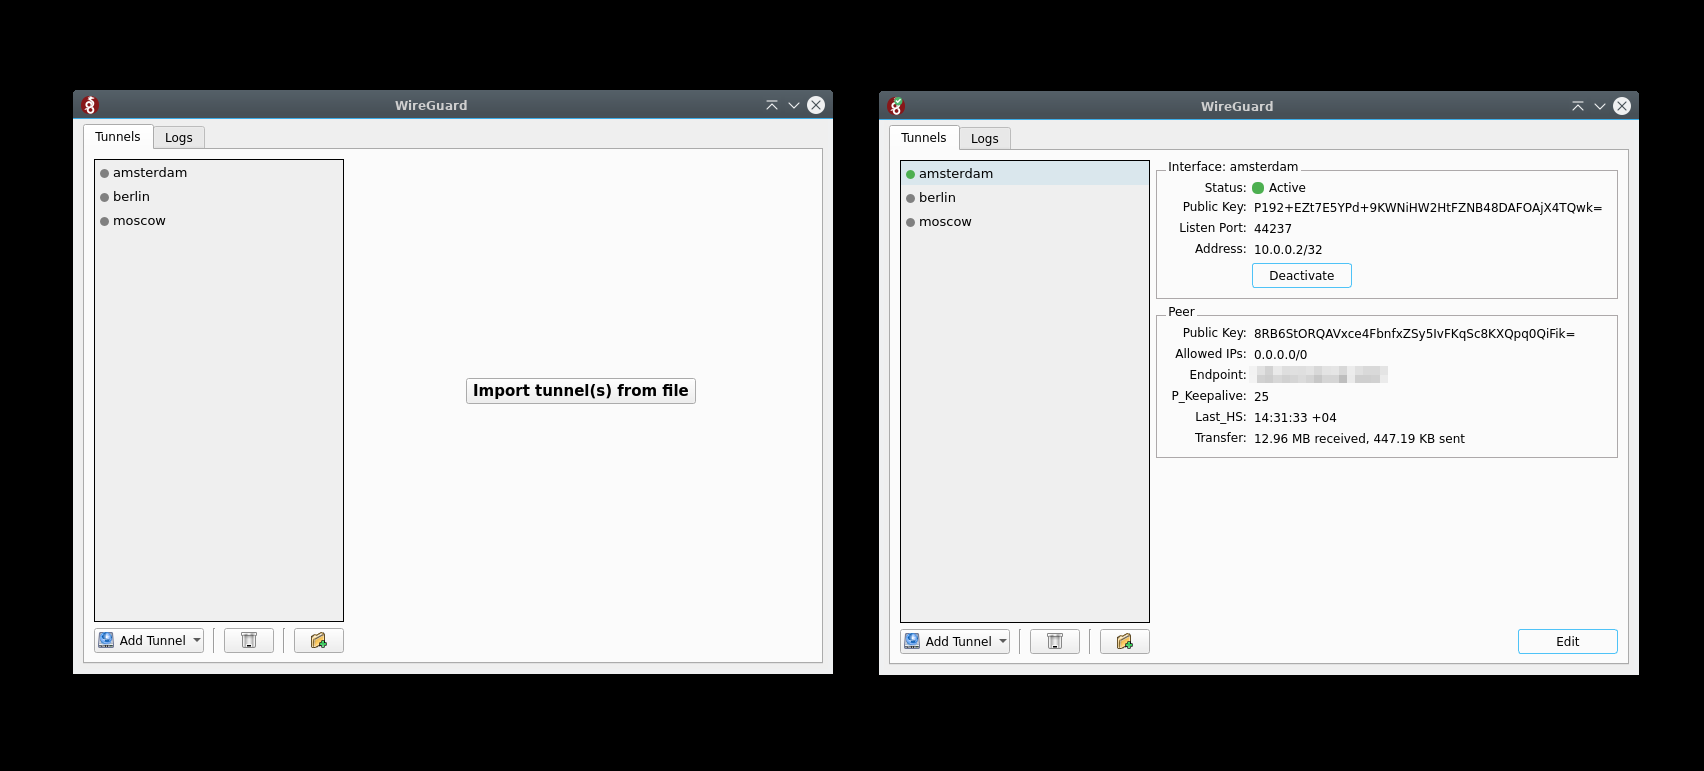
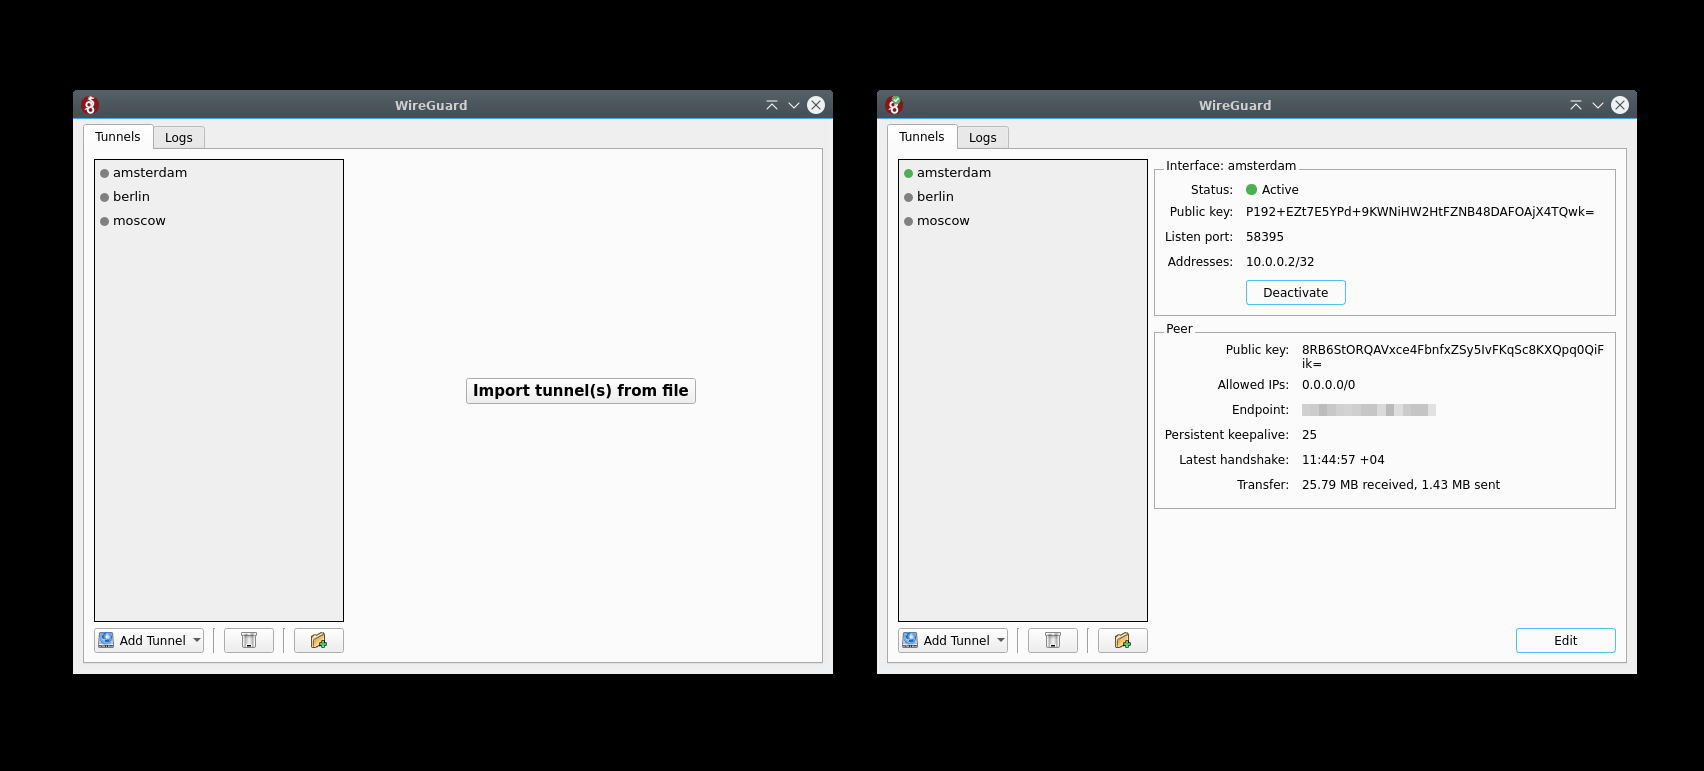
updated the condition for line wrapping and added a new repository image

diff --git a/wireguard.py b/wireguard.py
@@ -717,7 +717,7 @@ class TunnelConfigWidget(QWidget):
       convenient way besides 'setMaximumHeight'.
       """
       value_edit.document().setDocumentMargin(0)
-      if len(value) >= 44 and interface_max_length >= 19 and is_active:
+      if is_active and (len(value) >= 44 and interface_max_length >= 19) or len(value) >= 63:
         value_edit.setMaximumHeight(30)
       else:
         value_edit.setMaximumHeight(20)
@@ -793,7 +793,7 @@ class TunnelConfigWidget(QWidget):
       convenient way besides 'setMaximumHeight'.
       """
       value_edit.document().setDocumentMargin(0)
-      if len(value) >= 44 and peer_max_length >= 19 and is_active:
+      if is_active and (len(value) >= 44 and peer_max_length >= 19) or len(value) >= 63:
         value_edit.setMaximumHeight(30)
       else:
         value_edit.setMaximumHeight(20)
